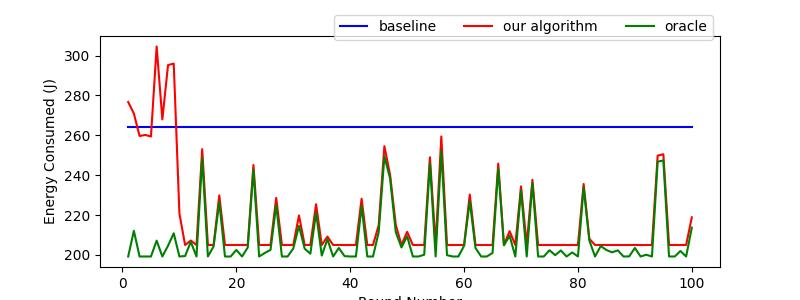
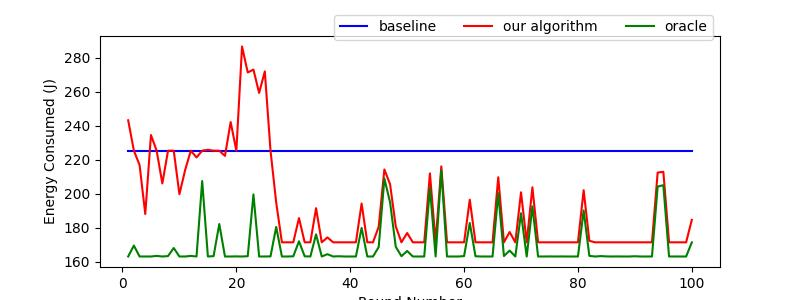
agx motivation

diff --git a/AGX/getPareto.py b/AGX/getPareto.py
@@ -23,13 +23,66 @@ def get_Pareto(file):
 
 
 if __name__ == '__main__':
-    pareto, config = get_Pareto('IMDB.json')
+    pareto, config = get_Pareto('ImageNet.json')
     print(len(pareto))
     for i in range(len(pareto)):
         print(pareto[i], config[i])
 
-    data = load_json('IMDB.json').values()
+    data = load_json('ImageNet.json').values()
     t_data = [d[0] for d in data]
     e_data = [d[1] for d in data]
     print(max(t_data) / min(t_data))
     print(max(e_data) / min(e_data))
+
+
+    import matplotlib
+    matplotlib.use('Agg')
+    import matplotlib.pyplot as plt
+    from dvfs import CPU_FREQ_TABLE, GPU_FREQ_TABLE, EMC_FREQ_TABLE
+
+    c1, c2 = CPU_FREQ_TABLE[0], CPU_FREQ_TABLE[-1]
+    m1, m2 = EMC_FREQ_TABLE[0], EMC_FREQ_TABLE[-1]
+    g1, g2 = GPU_FREQ_TABLE[0], GPU_FREQ_TABLE[-1]
+
+    imagenet_dic = load_json('ImageNet.json')
+    cifar10_dic = load_json('CIFAR10.json')
+    imdb_dic = load_json('IMDB.json')
+
+    t1, e1 = [], []
+    t2, e2 = [], []
+    for g in GPU_FREQ_TABLE[5:]:
+        k1 = (c2, g, m1)
+        k2 = (c2, g, m2)
+        t1.append(imagenet_dic[k1][0])
+        e1.append(imagenet_dic[k1][1])
+        t2.append(imagenet_dic[k2][0])
+        e2.append(imagenet_dic[k2][1])
+
+    plt.clf()
+    plt.plot(t1)
+    plt.plot(t2)
+    # plt.plot(e1)
+    # plt.plot(e2)
+    plt.savefig('motivation1.jpg')
+
+
+    plt.clf()
+
+    t1, e1 = [], []
+    t2, e2 = [], []
+    t3, e3 = [], []
+    for c in CPU_FREQ_TABLE[8:]:
+        k1 = (c, g2, m2)
+        t1.append(imagenet_dic[k1][0])
+        e1.append(imagenet_dic[k1][1])
+        t2.append(cifar10_dic[k1][0])
+        e2.append(cifar10_dic[k1][1])
+        t3.append(imdb_dic[k1][0])
+        e3.append(imdb_dic[k1][1])
+
+    plt.plot(t1)
+    plt.plot(t2)
+    plt.plot(t3)
+    # plt.plot(e1)
+    # plt.plot(e2)
+    plt.savefig('motivation2.jpg')

diff --git a/AGX/simulator.py b/AGX/simulator.py
@@ -90,7 +90,7 @@ class Simulation:
         
     def generate_ddls(self):
         min_time = self.profile_res[(1.0, 1.0, 1.0)][0] * self.workload
-        return [min_time * random.uniform(1.0, 2.0) for _ in range(self.rounds)]
+        return [min_time * random.uniform(1.0, 3.0) for _ in range(self.rounds)]
 
 
     def RUN_ALGORITHM(self):
@@ -261,7 +261,7 @@ class Simulation:
 
 
 if __name__ == '__main__':
-    s = Simulation('IMDB')
+    s = Simulation('ImageNet')
     A_res = s.RUN_ALGORITHM()
     B_res = s.RUN_BASELINE()
     O_res = s.RUN_OPTIMAL()
@@ -280,7 +280,7 @@ if __name__ == '__main__':
     plt.legend(bbox_to_anchor=(0., 1.02, 1., .102), ncol=3,)
     plt.xlabel('Round Number')
     plt.ylabel('Energy Consumed (J)')
-    plt.savefig('IMDB_sim.jpg')
+    plt.savefig('ImageNet_sim.jpg')
 
 
 

diff --git a/AGX/mob_trieste.py b/AGX/mob_trieste.py
@@ -59,7 +59,8 @@ def getSysProfileResult(conf):
     for i in range(conf.shape[0]):
         print('step {:d}'.format(i))
         print(conf[i].numpy().tolist())
-        t, e = function_data[tuple(conf[i].numpy().tolist())]
+        conf_int = [round(item / 100) * 100 for item in conf[i].numpy().tolist()]
+        t, e = function_data[tuple(conf_int)]
         res.append([t, e])
     res = tf.stack(res, axis=0)
     return tf.cast(res, dtype=tf.float64)
